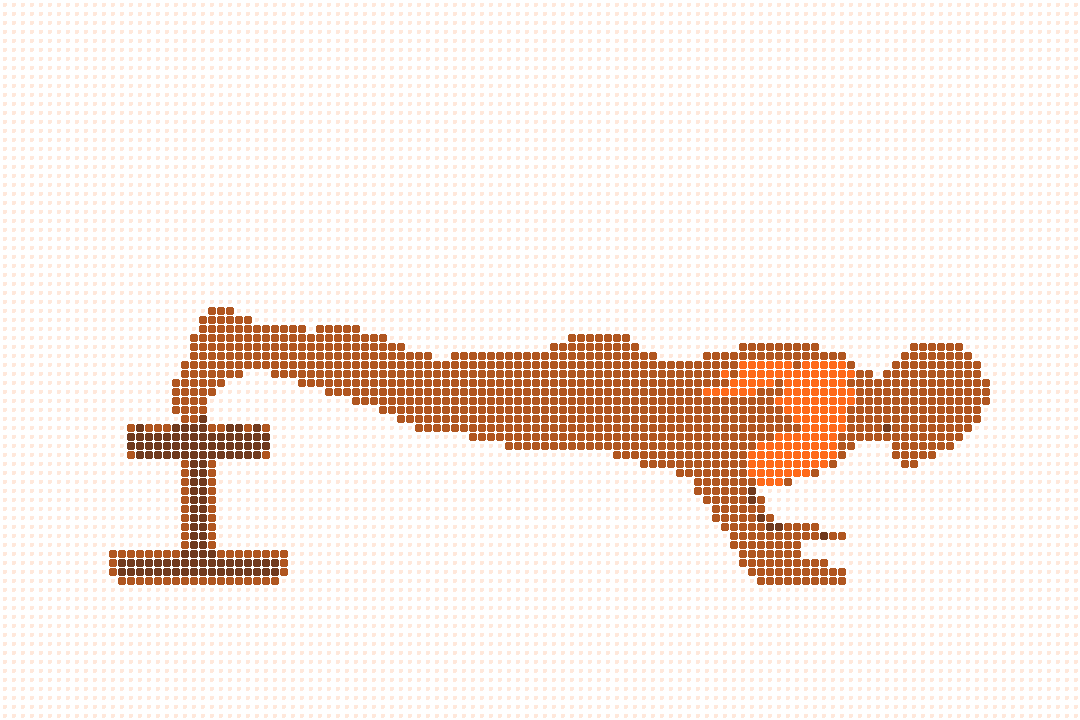
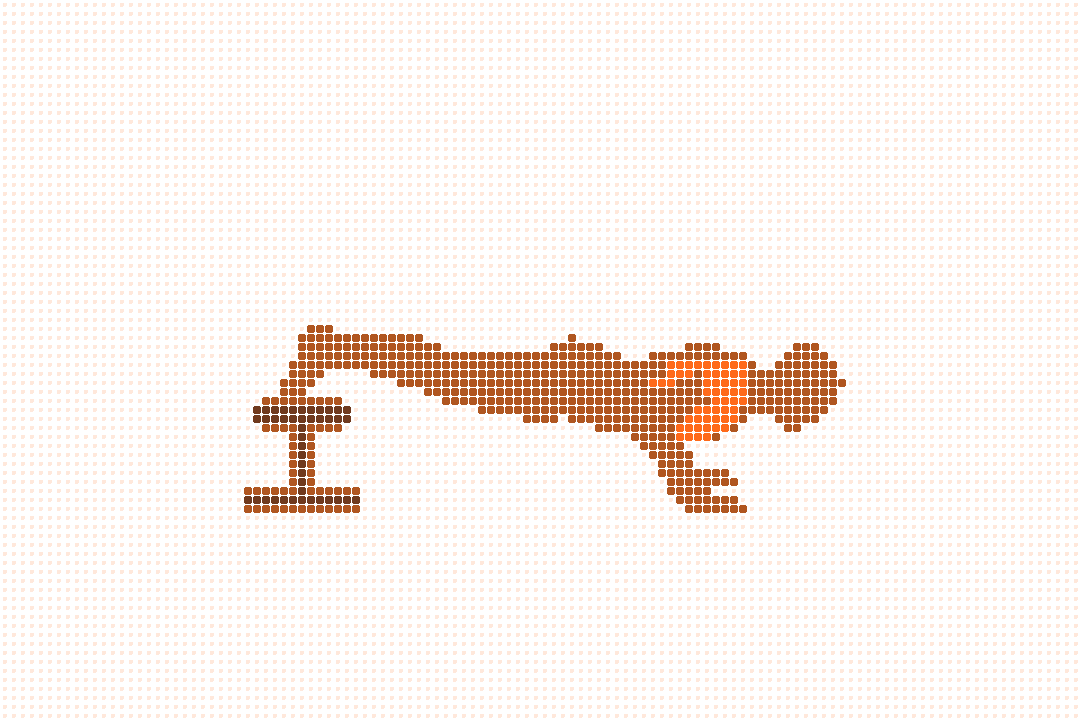
Exercise art: 31 strength and core rows, lying lifts at standing size
Leg machines, core moves and holds that had no SVG figure now get art
(31 lifts; calf and tibialis raises stay without a panel, their motion
is a few dots of foot). dots.py caps the widest frame at 1.3x the
standing figure height by default, so floor and horizontal lifts come
out at the same body size as standing ones; the seven approved floor
lifts are re-rendered from their same sources. 159 lifts, 322 frames.

Claude-Session: https://claude.ai/code/session_01CpbH69zfro3uFPEUeq3yWr

Changed region(s): [[0.0917, 0.4278, 0.9167, 0.825], [0.3667, 0.4583, 0.4278, 0.5194]]

diff --git a/mobile/src/device/exercise-art.generated.ts b/mobile/src/device/exercise-art.generated.ts
@@ -87,6 +87,10 @@ export const EXERCISE_ART: Readonly<Record<string, readonly ImageSourcePropType[
     require('../../assets/images/exercise-art/assisted-dip-0.png'),
     require('../../assets/images/exercise-art/assisted-dip-1.png'),
   ],
+  'bundled-dumbbell-pullover': [
+    require('../../assets/images/exercise-art/dumbbell-pullover-0.png'),
+    require('../../assets/images/exercise-art/dumbbell-pullover-1.png'),
+  ],
   'bundled-incline-bench-press-dumbbells': [
     require('../../assets/images/exercise-art/incline-bench-press-dumbbells-0.png'),
     require('../../assets/images/exercise-art/incline-bench-press-dumbbells-1.png'),
@@ -438,6 +442,10 @@ export const EXERCISE_ART: Readonly<Record<string, readonly ImageSourcePropType[
     require('../../assets/images/exercise-art/sumo-squat-0.png'),
     require('../../assets/images/exercise-art/sumo-squat-1.png'),
   ],
+  'bundled-leg-extension': [
+    require('../../assets/images/exercise-art/leg-extension-0.png'),
+    require('../../assets/images/exercise-art/leg-extension-1.png'),
+  ],
   'bundled-bulgarian-split-squat': [
     require('../../assets/images/exercise-art/bulgarian-split-squat-0.png'),
     require('../../assets/images/exercise-art/bulgarian-split-squat-1.png'),
@@ -487,6 +495,22 @@ export const EXERCISE_ART: Readonly<Record<string, readonly ImageSourcePropType[
     require('../../assets/images/exercise-art/good-morning-0.png'),
     require('../../assets/images/exercise-art/good-morning-1.png'),
   ],
+  'bundled-leg-curl': [
+    require('../../assets/images/exercise-art/leg-curl-0.png'),
+    require('../../assets/images/exercise-art/leg-curl-1.png'),
+  ],
+  'bundled-seated-leg-curl': [
+    require('../../assets/images/exercise-art/seated-leg-curl-0.png'),
+    require('../../assets/images/exercise-art/seated-leg-curl-1.png'),
+  ],
+  'bundled-lying-leg-curl': [
+    require('../../assets/images/exercise-art/lying-leg-curl-0.png'),
+    require('../../assets/images/exercise-art/lying-leg-curl-1.png'),
+  ],
+  'bundled-nordic-hamstring-curl': [
+    require('../../assets/images/exercise-art/nordic-hamstring-curl-0.png'),
+    require('../../assets/images/exercise-art/nordic-hamstring-curl-1.png'),
+  ],
   'bundled-hip-thrust': [
     require('../../assets/images/exercise-art/hip-thrust-0.png'),
     require('../../assets/images/exercise-art/hip-thrust-1.png'),
@@ -511,9 +535,109 @@ export const EXERCISE_ART: Readonly<Record<string, readonly ImageSourcePropType[
     require('../../assets/images/exercise-art/kettlebell-swing-0.png'),
     require('../../assets/images/exercise-art/kettlebell-swing-1.png'),
   ],
+  'bundled-cable-glute-kickback': [
+    require('../../assets/images/exercise-art/cable-glute-kickback-0.png'),
+    require('../../assets/images/exercise-art/cable-glute-kickback-1.png'),
+  ],
+  'bundled-hip-abduction': [
+    require('../../assets/images/exercise-art/hip-abduction-0.png'),
+    require('../../assets/images/exercise-art/hip-abduction-1.png'),
+  ],
+  'bundled-hip-adduction': [
+    require('../../assets/images/exercise-art/hip-adduction-0.png'),
+    require('../../assets/images/exercise-art/hip-adduction-1.png'),
+  ],
+  'bundled-hanging-leg-raise': [
+    require('../../assets/images/exercise-art/hanging-leg-raise-0.png'),
+    require('../../assets/images/exercise-art/hanging-leg-raise-1.png'),
+  ],
+  'bundled-cable-crunch': [
+    require('../../assets/images/exercise-art/cable-crunch-0.png'),
+    require('../../assets/images/exercise-art/cable-crunch-1.png'),
+  ],
+  'bundled-ab-wheel-rollout': [
+    require('../../assets/images/exercise-art/ab-wheel-rollout-0.png'),
+    require('../../assets/images/exercise-art/ab-wheel-rollout-1.png'),
+  ],
+  'bundled-plank': [
+    require('../../assets/images/exercise-art/plank-0.png'),
+    require('../../assets/images/exercise-art/plank-1.png'),
+  ],
+  'bundled-crunch': [
+    require('../../assets/images/exercise-art/crunch-0.png'),
+    require('../../assets/images/exercise-art/crunch-1.png'),
+  ],
+  'bundled-reverse-crunch': [
+    require('../../assets/images/exercise-art/reverse-crunch-0.png'),
+    require('../../assets/images/exercise-art/reverse-crunch-1.png'),
+  ],
+  'bundled-decline-sit-up': [
+    require('../../assets/images/exercise-art/decline-sit-up-0.png'),
+    require('../../assets/images/exercise-art/decline-sit-up-1.png'),
+  ],
+  'bundled-machine-crunch': [
+    require('../../assets/images/exercise-art/machine-crunch-0.png'),
+    require('../../assets/images/exercise-art/machine-crunch-1.png'),
+  ],
+  'bundled-hanging-knee-raise': [
+    require('../../assets/images/exercise-art/hanging-knee-raise-0.png'),
+    require('../../assets/images/exercise-art/hanging-knee-raise-1.png'),
+  ],
+  'bundled-lying-leg-raise': [
+    require('../../assets/images/exercise-art/lying-leg-raise-0.png'),
+    require('../../assets/images/exercise-art/lying-leg-raise-1.png'),
+  ],
+  'bundled-toes-to-bar': [
+    require('../../assets/images/exercise-art/toes-to-bar-0.png'),
+    require('../../assets/images/exercise-art/toes-to-bar-1.png'),
+  ],
+  'bundled-v-up': [
+    require('../../assets/images/exercise-art/v-up-0.png'),
+    require('../../assets/images/exercise-art/v-up-1.png'),
+  ],
+  'bundled-flutter-kicks': [
+    require('../../assets/images/exercise-art/flutter-kicks-0.png'),
+    require('../../assets/images/exercise-art/flutter-kicks-1.png'),
+  ],
+  'bundled-bicycle-crunch': [
+    require('../../assets/images/exercise-art/bicycle-crunch-0.png'),
+    require('../../assets/images/exercise-art/bicycle-crunch-1.png'),
+  ],
+  'bundled-russian-twist': [
+    require('../../assets/images/exercise-art/russian-twist-0.png'),
+    require('../../assets/images/exercise-art/russian-twist-1.png'),
+  ],
   'bundled-dumbbell-side-bend': [
     require('../../assets/images/exercise-art/dumbbell-side-bend-0.png'),
     require('../../assets/images/exercise-art/dumbbell-side-bend-1.png'),
+  ],
+  'bundled-cable-woodchop': [
+    require('../../assets/images/exercise-art/cable-woodchop-0.png'),
+    require('../../assets/images/exercise-art/cable-woodchop-1.png'),
+  ],
+  'bundled-pallof-press': [
+    require('../../assets/images/exercise-art/pallof-press-0.png'),
+    require('../../assets/images/exercise-art/pallof-press-1.png'),
+  ],
+  'bundled-side-plank': [
+    require('../../assets/images/exercise-art/side-plank-0.png'),
+    require('../../assets/images/exercise-art/side-plank-1.png'),
+  ],
+  'bundled-hollow-hold': [
+    require('../../assets/images/exercise-art/hollow-hold-0.png'),
+    require('../../assets/images/exercise-art/hollow-hold-1.png'),
+  ],
+  'bundled-dead-bug': [
+    require('../../assets/images/exercise-art/dead-bug-0.png'),
+    require('../../assets/images/exercise-art/dead-bug-1.png'),
+  ],
+  'bundled-bird-dog': [
+    require('../../assets/images/exercise-art/bird-dog-0.png'),
+    require('../../assets/images/exercise-art/bird-dog-1.png'),
+  ],
+  'bundled-copenhagen-plank': [
+    require('../../assets/images/exercise-art/copenhagen-plank-0.png'),
+    require('../../assets/images/exercise-art/copenhagen-plank-1.png'),
   ],
   'bundled-wall-sit': [
     require('../../assets/images/exercise-art/wall-sit-0.png'),

diff --git a/mobile/scripts/exercise-art/dots.py b/mobile/scripts/exercise-art/dots.py
@@ -15,7 +15,7 @@ def option(name, default):
     return sys.argv[sys.argv.index(name) + 1] if name in sys.argv else default
 
 anchor = option("--anchor", "floor")
-long_cap = float(option("--long", "0"))   # 0: off; else the widest frame is at most this x the figure height
+long_cap = float(option("--long", "1.3"))  # the widest frame is at most this x the figure height (0: off)
 flags = {i for i, a in enumerate(sys.argv) if a.startswith("--")}
 args = [a for i, a in enumerate(sys.argv[1:], 1) if i not in flags and i - 1 not in flags]
 src, outs = args[0], args[1:]

diff --git a/PRODUCT-DECISIONS.md b/PRODUCT-DECISIONS.md
@@ -149,7 +149,7 @@ Picked while porting Family loop into `mobile/`. Trim is usable; these are the c
         - D2 No Appearance setting: sheets and moments are always dark, the device look is the finish. A dark user gets 101 Graphite once on update.
         - D3 Finishes 212 and 101 are free, 305 and 408 are Pro (reason `finishes`, feature row "Every finish"). A locked swatch previews; the paywall opens only from the "Get Trim Pro" pill.
         - D4 No rank gauge and no "stronger than X%": it needs strength-standards data Trim doesn't have. Progress opens with Goals. TODO: decide on a strength-standards source before any rank ships (`// rank:` in code).
-        - D5 Exercise sheet figures are our own, plus a three-step how-to for the 40 most common lifts, in a catalog side map never stored on plans. No third-party media. *Updated 6 Oct 2026:* each bundled lift gets its own looping dot-matrix art: a faceless mid-grey mannequin, dark-grey equipment and the working muscles lit orange, in the display's dot grid on an lcd screen inside a bezel. It has two frames (start, end), or three for a few complex lifts, and holds the last frame with Reduce Motion on. The art is generated offline (`mobile/scripts/exercise-art/`), keyed by catalog id, and ships only once Marvin approves it. A lift without approved art keeps its SVG movement-pattern figure; custom exercises get no panel. Rejected directions: glossy 3D, device-head characters, photoreal.
+        - D5 Exercise sheet figures are our own, plus a three-step how-to for the 40 most common lifts, in a catalog side map never stored on plans. No third-party media. *Updated 6 Oct 2026:* each bundled lift gets its own looping dot-matrix art: a faceless mid-grey mannequin, dark-grey equipment and the working muscles lit orange, in the display's dot grid on an lcd screen inside a bezel. It has two frames (start, end), or three for a few complex lifts, and holds the last frame with Reduce Motion on. The art is generated offline (`mobile/scripts/exercise-art/`), keyed by catalog id, and ships only once Marvin approves it. Lying and horizontal lifts are drawn at the same body size as standing ones. Strength and core rows without an SVG figure get art too. Calf and tibialis raises, cardio, timers and stretches keep no panel, because a few dots of foot movement doesn't read. A lift without approved art keeps its SVG movement-pattern figure; custom exercises get no panel. Rejected directions: glossy 3D, device-head characters, photoreal.
         - D6 Rest at 0:00 blinks `GO` with the haptic for 2 s, then shows the same upcoming set. Nothing is logged or advanced.
         - D7 The receipt sheet replaces Done, and carries the milestone and goals reached. The post-workout paywall opens from the receipt's Done.
         - D8 Day preview, Weeks and the rename routes go. Plans and days are renamed inline in the editor; a day's actions live behind its `…`.

diff --git a/.cursor/skills/trim-ui/SKILL.md b/.cursor/skills/trim-ui/SKILL.md
@@ -750,7 +750,7 @@ Top edge 200. Rows: name, sub (`Now, set 2/3`, the logged sets, or `3 × 8 at 85
 
 ### Exercise (M4) [06]
 
-A 230 illustration panel (D5; no panel without art or a figure): the lift's own dot-matrix art when it has approved art (a `card` bezel around an `lcd` screen, frames from `exercise-art.generated.ts` looping every 900 ms, the last frame held under Reduce Motion), otherwise our SVG figure for the movement pattern. The art is a faceless mid-grey mannequin with dark-grey equipment and the working muscles lit orange, about 64% of the panel height and clear of the close button; it's made offline with `mobile/scripts/exercise-art/`, never drawn by hand in code. Custom exercises get no panel. Then the name (30/800), the kit and muscle line, muscle chips (primary orange), `HOW TO` with 3 numbered steps (only where written), then, for a lift in the open workout, `SWAP FOR`: up to 3 alternatives (`Cable, side delts`; lifts already in today's session left out) and `Choose another` in its own card (the picker in place, ‹ back). One tap swaps for today (D81) and closes the sheet (‹ to Today when opened from it). Then `YOU` with the estimated max and best today or last time. No rank. The display's lift name ▾ opens this sheet, so swapping mid-set is two taps.
+A 230 illustration panel (D5; no panel without art or a figure): the lift's own dot-matrix art when it has approved art (a `card` bezel around an `lcd` screen, frames from `exercise-art.generated.ts` looping every 900 ms, the last frame held under Reduce Motion), otherwise our SVG figure for the movement pattern. The art is a faceless mid-grey mannequin with dark-grey equipment and the working muscles lit orange, about 64% of the panel height (a lying body no bigger than a standing one) and clear of the close button; it's made offline with `mobile/scripts/exercise-art/`, never drawn by hand in code. Custom exercises get no panel. Then the name (30/800), the kit and muscle line, muscle chips (primary orange), `HOW TO` with 3 numbered steps (only where written), then, for a lift in the open workout, `SWAP FOR`: up to 3 alternatives (`Cable, side delts`; lifts already in today's session left out) and `Choose another` in its own card (the picker in place, ‹ back). One tap swaps for today (D81) and closes the sheet (‹ to Today when opened from it). Then `YOU` with the estimated max and best today or last time. No rank. The display's lift name ▾ opens this sheet, so swapping mid-set is two taps.
 
 ### History wall (HR1) [02]
 

diff --git a/mobile/scripts/exercise-art/README.md b/mobile/scripts/exercise-art/README.md
@@ -9,7 +9,8 @@ repo; only approved frames come in.
 - `lifts.json`: every bundled row (`id`, `name`, `equipment`, `muscles`, `figure` kind, `frames`:
   2, or 3 for the few complex lifts). Built from `src/catalog/bundled.ts`.
 - `poses/<group>.json`: the recipe per lift, one file per movement group (press, squat, hinge,
-  pull, row, fly, curl, extension, raise, carry): `id`, `start`, `end`, `middle` (three-frame
+  pull, row, fly, curl, extension, raise, carry, plus legs, core and holds for rows with no SVG
+  figure): `id`, `start`, `end`, `middle` (three-frame
   lifts only), `muscles` to light, optional `view` (default `side view`), `anchor` (`floor`, or
   `top` when the bar stays and the body moves, e.g. pull-ups) and `notes`.
 - `approved.json`: the lifts Marvin approved (catalog id to frame count). The manifest is
@@ -32,7 +33,8 @@ repo; only approved frames come in.
 `dots.py` splits the source at the emptiest columns, scales every frame with one shared scale,
 lines up the anchor (feet on one baseline, or the bar), and renders transparent 120x80 dot
 frames at 9 px pitch (1080x720), the figure about 64% of the panel height, centred, clear of
-the top-left (the close button). About 10 KB a frame.
+the top-left (the close button). `--long 1.3` (the default) caps the widest frame at 1.3x the
+standing figure height, so lying lifts come out at the same body size as standing ones. About 10 KB a frame.
 
 ## Rubric
 
@@ -50,4 +52,5 @@ and dropped connections.
 
 The model returns a white ground even when asked for black (handled in `dots.py`); separate
 generations per pose give different bodies; a bar seen end-on reads as a blob, so ask for a
-three-quarter view of the barbell; plates in front of the head hide it.
+three-quarter view of the barbell; plates in front of the head hide it; thin cables break into
+stray dots, so ask for thick ones; calf and tibialis raises move a few dots of foot and don't read.
